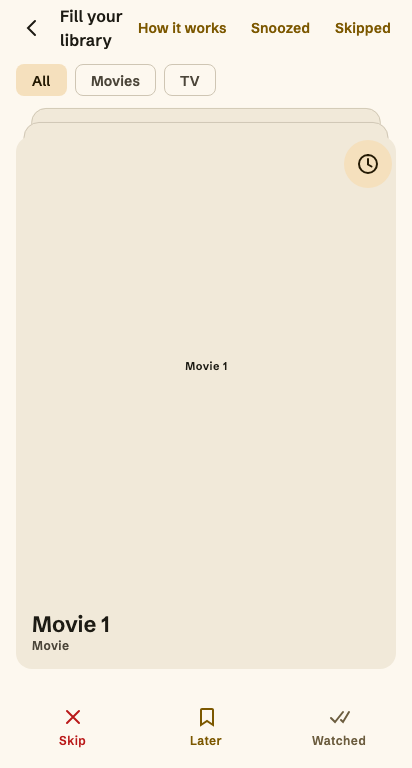
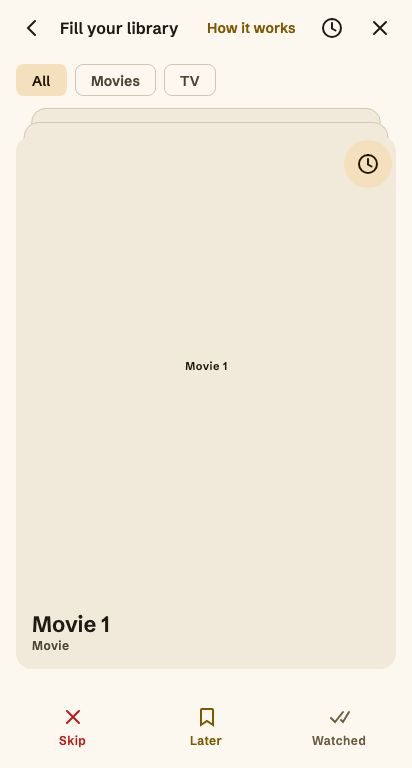
fix(triage): stop the deck header's title from wrapping at phone width (#138) (#156)
TriageHeader carried back arrow, title, and three TextButtons ("How it
works" / "Snoozed" / "Skipped") — EPIC 42's "Snoozed" pushed the row wide
enough that "Fill your library" wrapped to two lines at 412dp.

Snoozed and Skipped become icon buttons (MuvissIcons.Snooze /
MuvissIcons.Skip, each with a contentDescription), leaving "How it works" as
the one labelled action — it's one-time onboarding copy that wouldn't read
as anything from a glyph alone, the same reasoning SnoozeButton already
applies on the card. The title also gets maxLines=1/TextOverflow.Ellipsis as
a defensive backstop.

Re-recorded the three triage-deck-*.png goldens that visibly carried the
wrap.

Changed region(s): [[0.1456, 0.0, 0.7573, 0.0625], [0.7864, 0.0, 0.9612, 0.0625]]

diff --git a/feature/triage/ui/src/jvmTest/kotlin/com/codingpit/muviss/feature/triage/ui/TriageScreenTest.kt b/feature/triage/ui/src/jvmTest/kotlin/com/codingpit/muviss/feature/triage/ui/TriageScreenTest.kt
@@ -437,6 +437,36 @@ class TriageScreenTest {
     }
 
     @Test
+    fun snoozed_and_skipped_are_reachable_as_icon_buttons_from_the_header() = runComposeUiTest {
+        // Issue #138: three text actions plus the title wrapped at 412dp, so
+        // Snoozed/Skipped became icon buttons — this is what proves they
+        // still reach their screens, by contentDescription rather than text.
+        val harness = TriageHarness(tv = listOf(showA))
+        var snoozedOpened = false
+        var skippedOpened = false
+        setContent {
+            MuvissTheme {
+                TriageScreen(
+                    viewModel = harness.viewModel(),
+                    onBack = {},
+                    onOpenSkipped = { skippedOpened = true },
+                    onOpenSnoozed = { snoozedOpened = true },
+                    onOpenDetail = {},
+                )
+            }
+        }
+        waitForIdle()
+
+        onNodeWithContentDescription("Snoozed").performClick()
+        waitForIdle()
+        onNodeWithContentDescription("Skipped").performClick()
+        waitForIdle()
+
+        assertTrue(snoozedOpened)
+        assertTrue(skippedOpened)
+    }
+
+    @Test
     fun an_empty_deck_offers_a_way_on_rather_than_a_blank_screen() = runComposeUiTest {
         showDeck(TriageHarness())
 

diff --git a/feature/triage/ui/src/commonMain/kotlin/com/codingpit/muviss/feature/triage/ui/TriageScreen.kt b/feature/triage/ui/src/commonMain/kotlin/com/codingpit/muviss/feature/triage/ui/TriageScreen.kt
@@ -351,11 +351,20 @@ private fun TriageHeader(
         Text(
             text = "Fill your library",
             style = MaterialTheme.typography.titleMedium,
+            maxLines = 1,
+            overflow = TextOverflow.Ellipsis,
             modifier = Modifier.weight(1f).padding(start = MuvissSpacing.xs),
         )
         TextButton(onClick = onShowTutorial) { Text("How it works") }
-        TextButton(onClick = onOpenSnoozed) { Text("Snoozed") }
-        TextButton(onClick = onOpenSkipped) { Text("Skipped") }
+        // Icon buttons rather than a third and fourth TextButton (issue
+        // #138): three text actions plus the title wrapped "Fill your
+        // library" to two lines at 412dp. "How it works" stays a labelled
+        // button because it is one-time onboarding copy that would not read
+        // as anything from a glyph alone; Snoozed/Skipped are destinations a
+        // returning user recognises by icon, the same trade `SnoozeButton`
+        // already makes on the card itself.
+        IconButton(onClick = onOpenSnoozed) { Icon(MuvissIcons.Snooze, contentDescription = "Snoozed") }
+        IconButton(onClick = onOpenSkipped) { Icon(MuvissIcons.Skip, contentDescription = "Skipped") }
     }
 }
 
